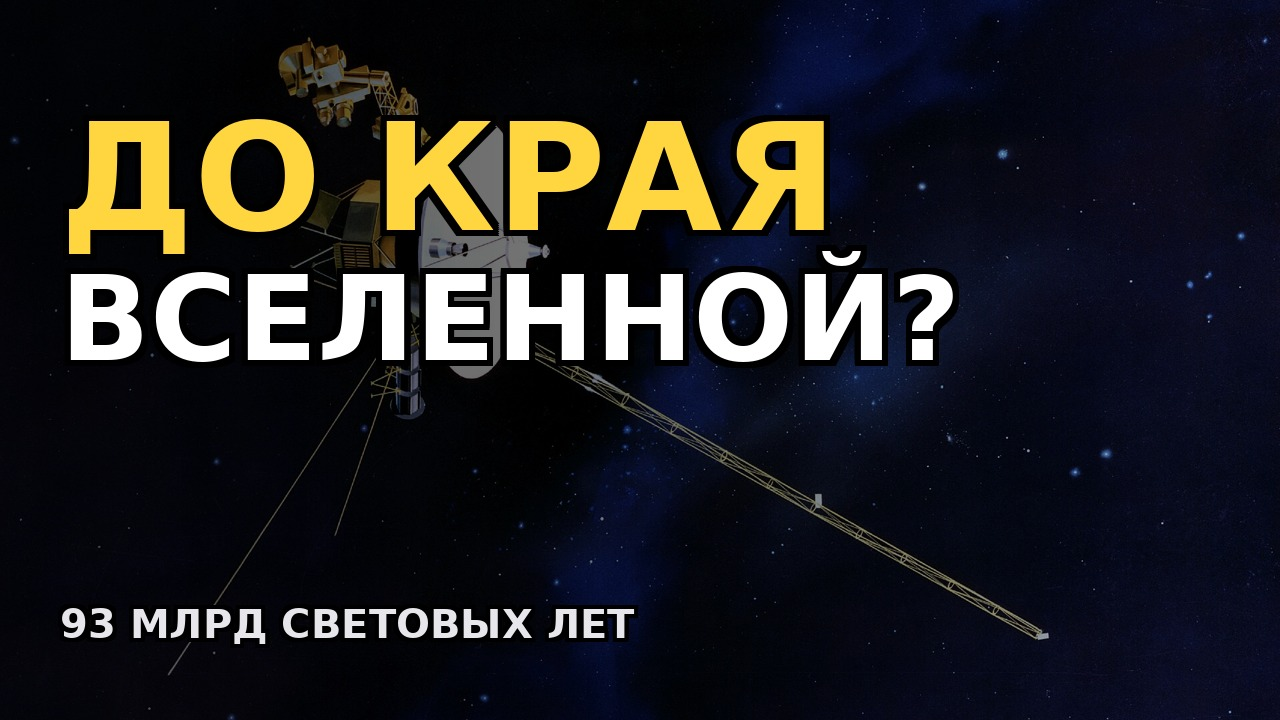
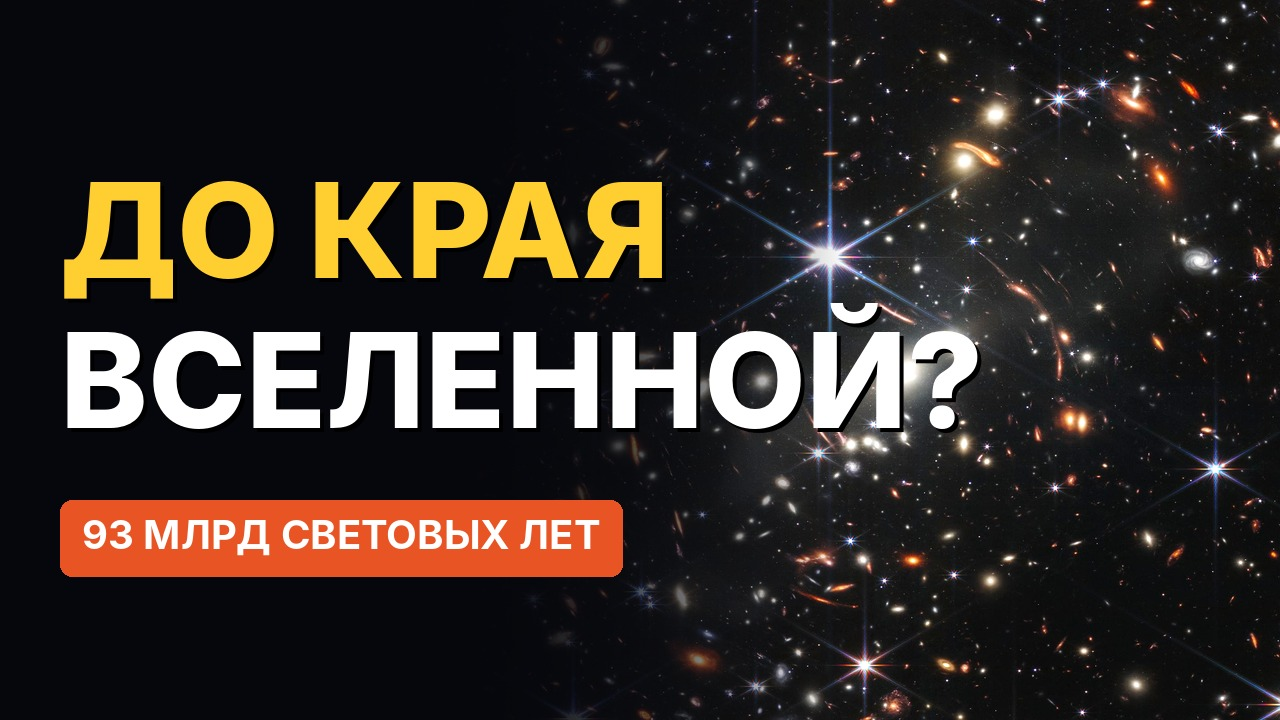
universe_size: new cover (Webb deep field)
Claude-Session: https://claude.ai/code/session_01RM84ZktC7yDNTdRACC84yR

diff --git a/ru_geo/universe_size/UPLOAD_KIT.md b/ru_geo/universe_size/UPLOAD_KIT.md
@@ -32,4 +32,4 @@
 Какое число в ролике вас удивило больше всего: 75 000 лет, 29 000 км на модели или 93 млрд световых лет?
 
 ## Обложка
-Идея: тёмный космос, маленькая точка (зонд), крупная подпись «ДО КРАЯ?» или «93 МЛРД ЛЕТ». Сделать отдельно, шрифт Inter bold.
+Готова: cover.jpg (1280×720). Фон: первое глубокое поле «Уэбба» (NASA, ESA, CSA, STScI, общественное достояние), надпись «ДО КРАЯ ВСЕЛЕННОЙ?» и плашка «93 МЛРД СВЕТОВЫХ ЛЕТ».
